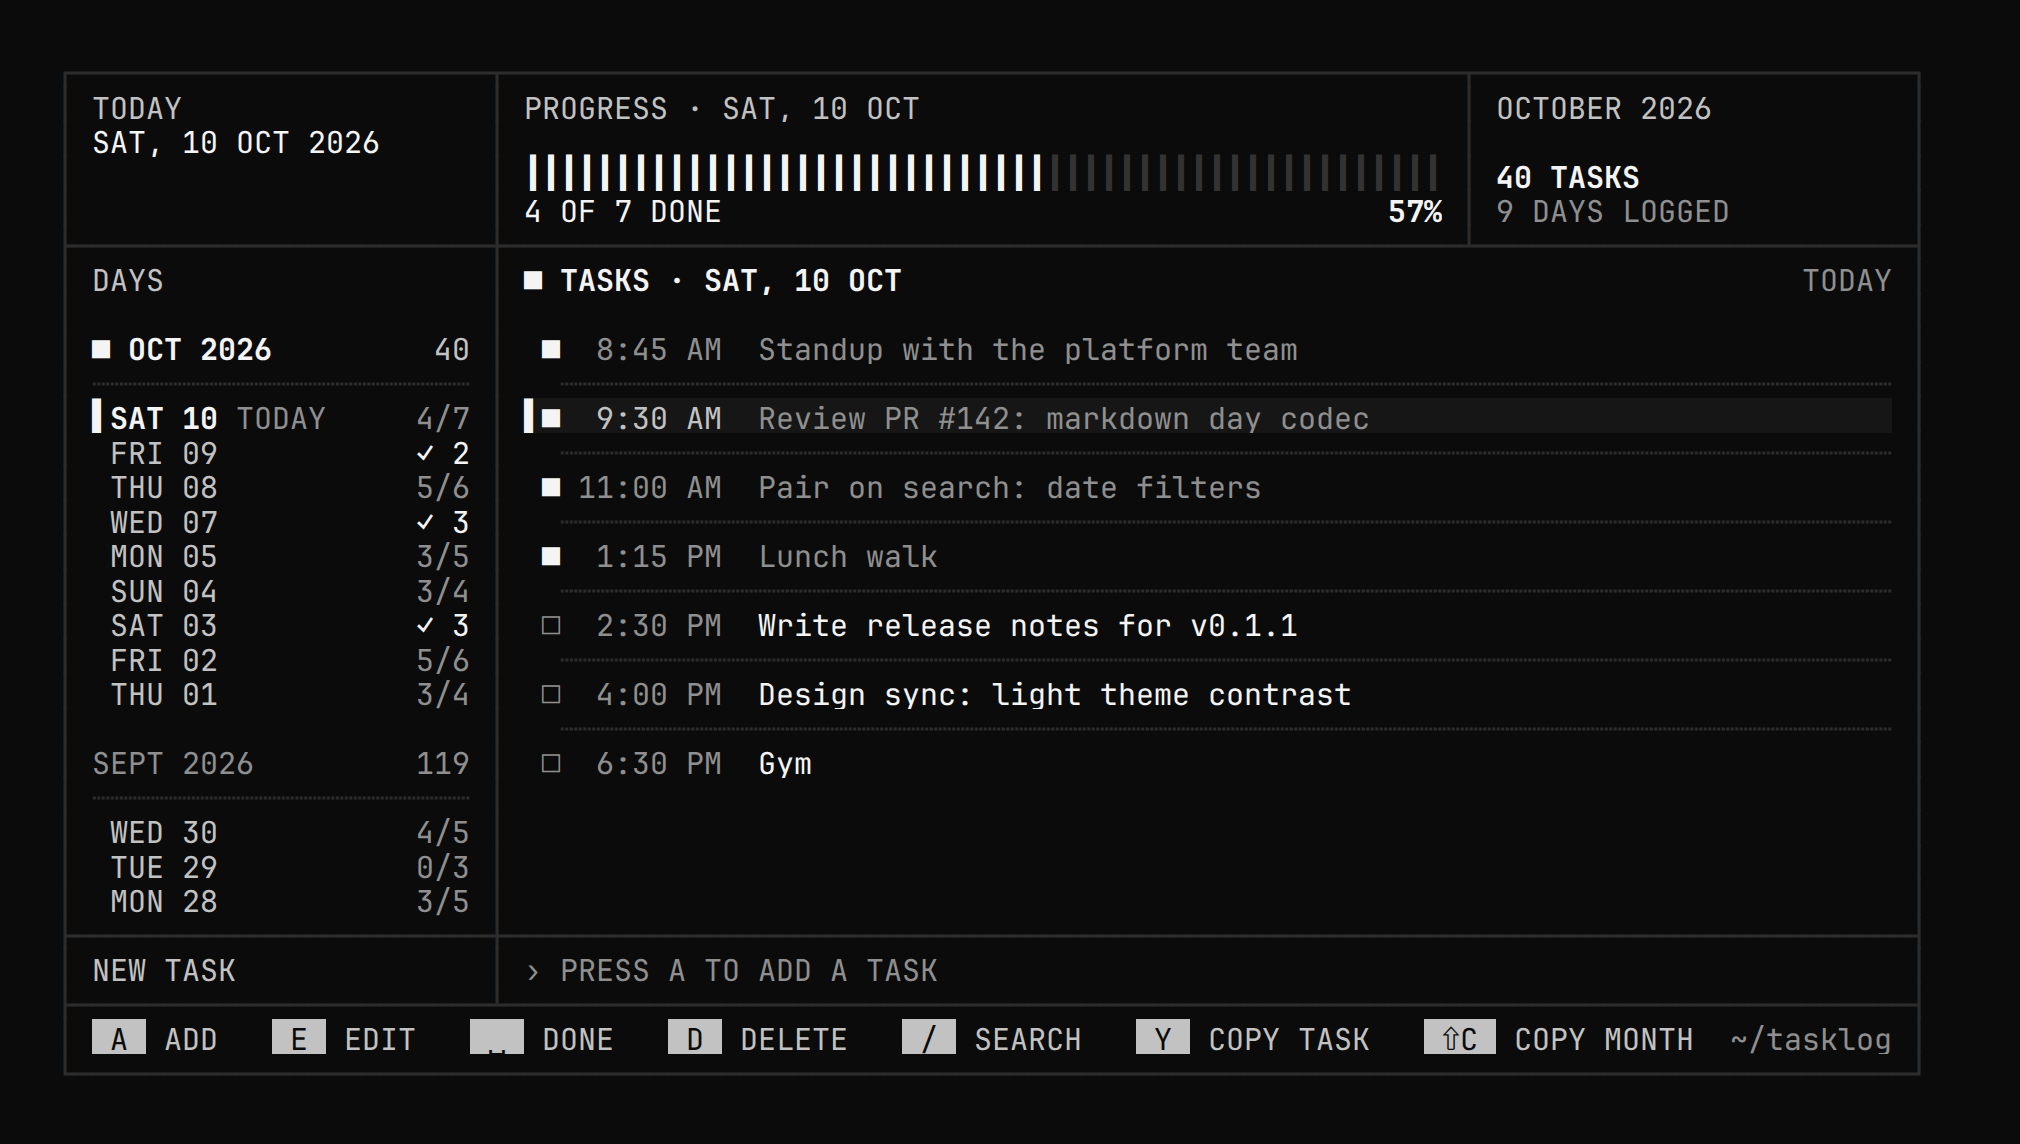
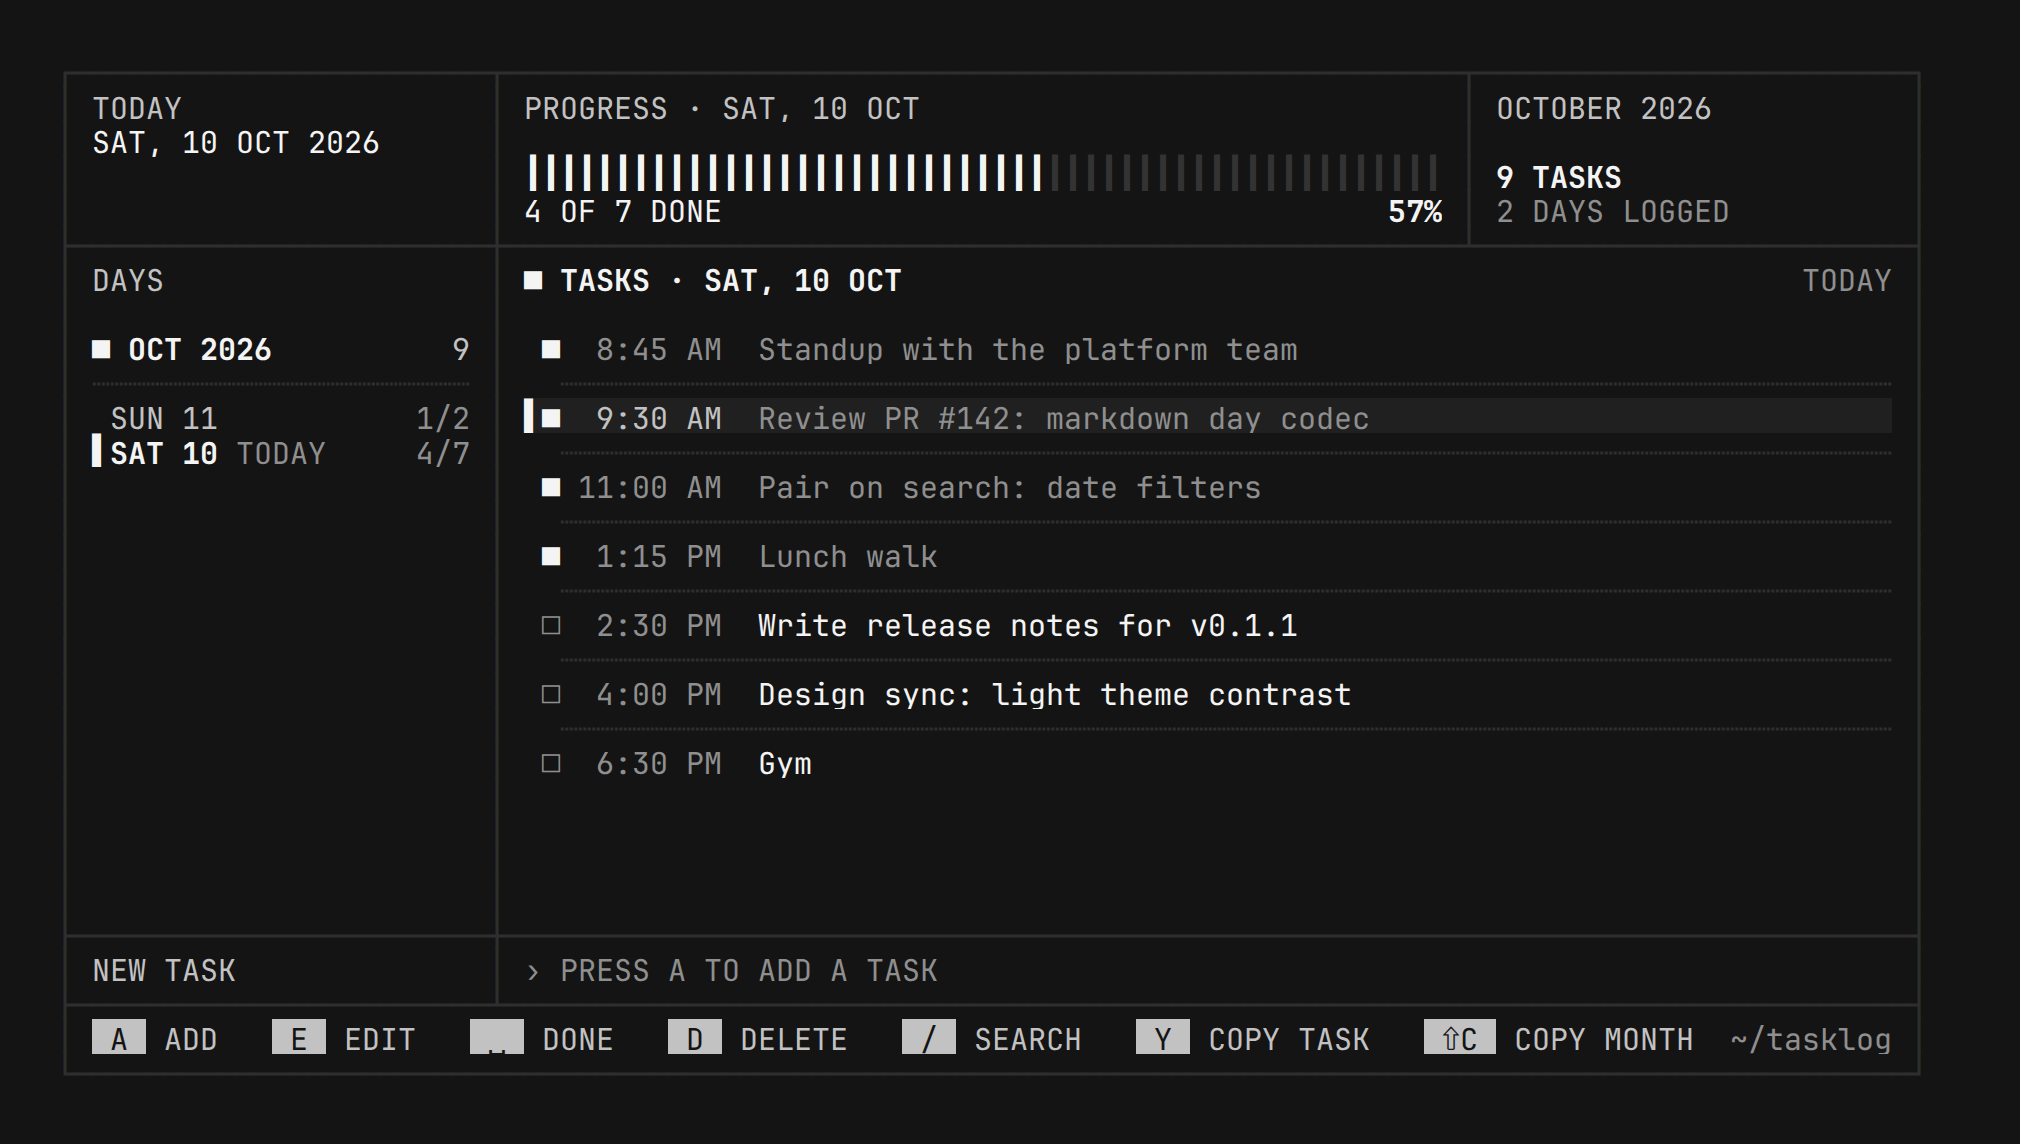
docs: themes section with forest and sepia screenshots
Images use raw GitHub URLs so they also render on npmjs.com.

diff --git a/README.md b/README.md
@@ -19,8 +19,8 @@
 
 <p align="center">
   <picture>
-    <source media="(prefers-color-scheme: dark)" srcset="./assets/screenshot-dark.png" />
-    <img alt="tasklog day view: stats row, days sidebar and today's tasks" src="./assets/screenshot-light.png" width="900" />
+    <source media="(prefers-color-scheme: dark)" srcset="https://raw.githubusercontent.com/PiyushRepos/tasklog/main/assets/screenshot-dark.png" />
+    <img alt="tasklog day view: stats row, days sidebar and today's tasks" src="https://raw.githubusercontent.com/PiyushRepos/tasklog/main/assets/screenshot-light.png" width="900" />
   </picture>
 </p>
 
@@ -31,7 +31,8 @@
 - **Search everything** — words plus `2026`, `2026-10` or `2026-10-10` to narrow by date.
 - **Safe deletes** — a red bar gives you 1.2s to cancel, then tasks go to a trash you can restore from.
 - **Copy as markdown** — one task, a day, a month or a whole year, straight to your clipboard.
-- **Light & dark themes** — monochrome instrument-panel design, toggled with `m` or `ctrl+t` and remembered.
+- **Copy on select** — drag over any text with the mouse; it's copied when you let go.
+- **Five themes, plus yours** — dark, light, midnight, forest and sepia built in; add your own in `config.json`. Pick with `M`, flip back with `m`.
 - **Folder history** — move your data anywhere; every folder you've used is kept so nothing gets lost.
 
 ## Install
@@ -46,22 +47,24 @@ tasklog                      # then run it
 
 ## Keys
 
-| Key                   | Action                                                                   |
-| --------------------- | ------------------------------------------------------------------------ |
-| `a`                   | add a task (start with `9:30 pm` or `21:30` to set the time)             |
-| `e` / `enter`         | edit                                                                     |
-| `space`               | toggle done                                                              |
-| `d`                   | delete — `esc` cancels while the red bar runs, `d` again deletes now     |
-| `u`                   | undo the last delete                                                     |
-| `j` `k` / `↑` `↓`     | move                                                                     |
-| `tab` · `[` `]` · `t` | switch pane · previous / next day · today                                |
-| `/`                   | search                                                                   |
-| `y`                   | copy the selected task as markdown                                       |
-| `c` · `C` · `Y`       | copy day · month · year as markdown                                      |
-| `T`                   | trash — `r` restores (green bar, `esc` cancels), `D` `D` deletes forever |
-| `s`                   | settings — change the data folder, see every folder used before          |
-| `m` · `ctrl+t`        | toggle light / dark theme (`ctrl+t` works anywhere, even while typing)   |
-| `?` · `q`             | all keys · quit                                                          |
+| Key                   | Action                                                                     |
+| --------------------- | -------------------------------------------------------------------------- |
+| `a`                   | add a task (start with `9:30 pm` or `21:30` to set the time)               |
+| `e` / `enter`         | edit                                                                       |
+| `space`               | toggle done                                                                |
+| `d`                   | delete — `esc` cancels while the red bar runs, `d` again deletes now       |
+| `u`                   | undo the last delete                                                       |
+| `j` `k` / `↑` `↓`     | move                                                                       |
+| `tab` · `[` `]` · `t` | switch pane · previous / next day · today                                  |
+| `/`                   | search                                                                     |
+| `y`                   | copy the selected task as markdown                                         |
+| `c` · `C` · `Y`       | copy day · month · year as markdown                                        |
+| `T`                   | trash — `r` restores (green bar, `esc` cancels), `D` `D` deletes forever   |
+| `s`                   | settings — change the data folder, see every folder used before            |
+| `m` · `ctrl+t`        | switch to your previous theme (`ctrl+t` works anywhere, even while typing) |
+| `M`                   | theme picker — arrows preview, `enter` keeps                               |
+| `?` · `q`             | all keys · quit                                                            |
+| `ctrl+c`              | copy the mouse selection, or quit when nothing is selected                 |
 
 ## Storage
 
@@ -91,6 +94,62 @@ tasklog --dir ~/work-log                 # use another folder for this run
 | Config file        | `~/.config/tasklog/config.json` (or `$XDG_CONFIG_HOME/tasklog`, `%APPDATA%\tasklog` on Windows) — run `tasklog where` to see it |
 | Override location  | `TASKLOG_CONFIG_DIR=/path`                                                                                                      |
 | Turn off animation | `TASKLOG_REDUCED_MOTION=1` (or `NO_MOTION=1`)                                                                                   |
+
+## Themes
+
+Press `M` to open the picker: arrows preview live, `enter` keeps, `esc` puts yours back. `m` (or `ctrl+t`, even while typing) flips between your current and previous theme.
+
+| Theme      | Feel                                                         |
+| ---------- | ------------------------------------------------------------ |
+| `dark`     | default — monochrome instrument panel on soft black          |
+| `light`    | warm paper with soft ink, low glare                          |
+| `midnight` | cool blue-black, slate greys                                 |
+| `forest`   | deep green-black, sage greys                                 |
+| `sepia`    | aged paper and brown ink, easy on the eyes for long sessions |
+
+<table>
+  <tr>
+    <td><img alt="tasklog forest theme" src="https://raw.githubusercontent.com/PiyushRepos/tasklog/main/assets/screenshot-forest.png" /></td>
+    <td><img alt="tasklog sepia theme" src="https://raw.githubusercontent.com/PiyushRepos/tasklog/main/assets/screenshot-sepia.png" /></td>
+  </tr>
+  <tr>
+    <td align="center"><code>forest</code></td>
+    <td align="center"><code>sepia</code></td>
+  </tr>
+</table>
+
+### Your own theme
+
+Add it under `themes` in the config file, then pick it with `M`. Each theme starts from `dark` or `light` (`base`) and changes only the colors you list:
+
+```json
+{
+  "theme": "ocean",
+  "themes": {
+    "ocean": {
+      "base": "dark",
+      "bg": "#0b1622",
+      "surface": "#13212f",
+      "line": "#1e3042"
+    },
+    "rose": { "base": "light", "bg": "#fbf1f1", "text": "#3a1f24" }
+  }
+}
+```
+
+| Color      | Used for                           |
+| ---------- | ---------------------------------- |
+| `bg`       | background                         |
+| `surface`  | selected row                       |
+| `line`     | grid lines and dividers            |
+| `meterOff` | empty bars in the progress meter   |
+| `muted`    | times, counts, done tasks          |
+| `label`    | UPPERCASE labels                   |
+| `text`     | task text and numbers              |
+| `danger`   | delete bar and errors              |
+| `success`  | restore bar and the undo highlight |
+
+All as `#rrggbb`. Invalid values fall back to the base and the picker tells you which. Built-in names can't be overwritten, so picking one is always a clean reset. The picker re-reads the file each time it opens; no restart needed.
 
 ## Development
 
